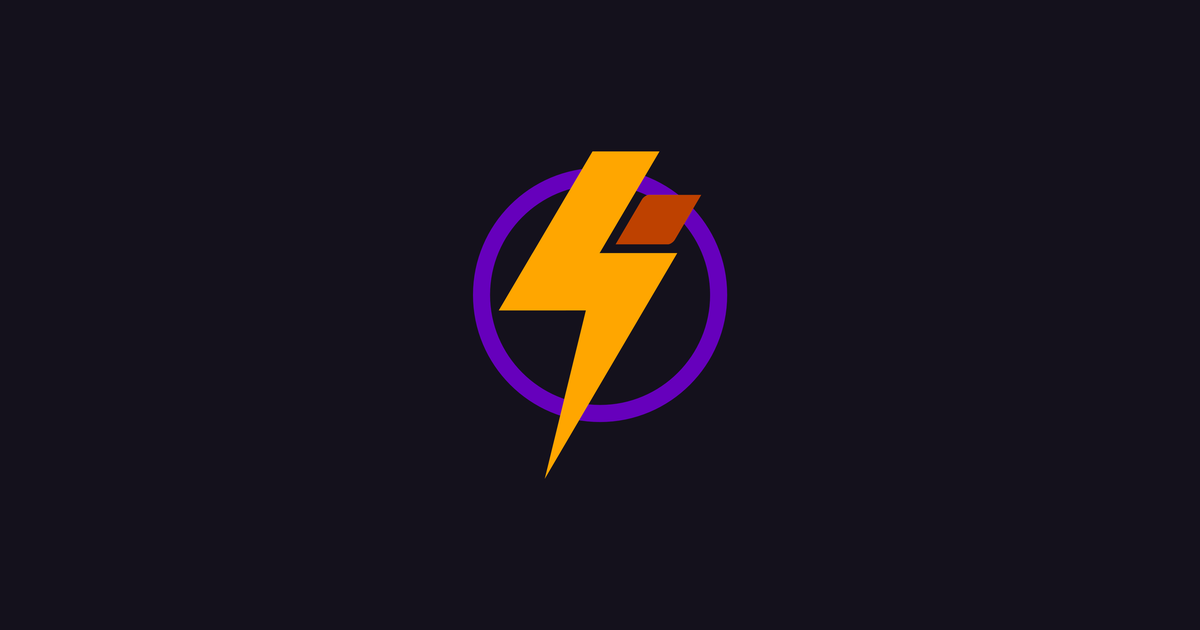
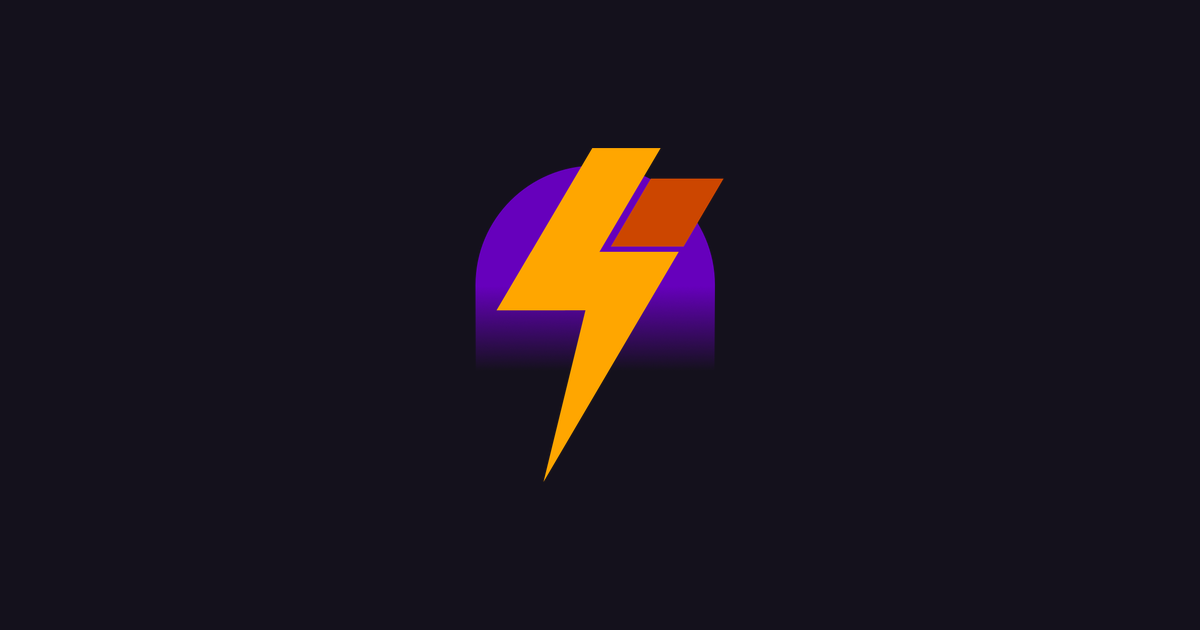
New mark: the bolt over a fading purple arch
Every icon and the lockup mark are now cut from one master by
tools/brand/icons.py: favicon.ico, the PWA icons, the apple-touch icon,
the Open Graph card and assets/images/nostr4-mark.png. The lockup's
intrinsic size and the OG alt text follow the new shape.

Changed region(s): [[0.37, 0.2413, 0.6167, 0.6937], [0.4933, 0.2111, 0.555, 0.2413]]

diff --git a/_includes/lib/lockup.html b/_includes/lib/lockup.html
@@ -4,7 +4,7 @@ The brand lockup: mark, wordmark, tagline. `variant: footer` sets the small one.
 {%- assign s = site.data.site -%}
 <a class="lockup{% if include.variant %} lockup--{{ include.variant }}{% endif %}" href="{{ '/' | relative_url }}" aria-label="{{ s.a11y.home_link | escape }}">
   <span class="lockup__row">
-    <img class="lockup__mark" src="{{ '/assets/images/nostr4-mark.png' | relative_url }}" alt="" width="448" height="576">
+    <img class="lockup__mark" src="{{ '/assets/images/nostr4-mark.png' | relative_url }}" alt="" width="429" height="576">
     <span class="lockup__word">{{ s.wordmark.stem }}<i class="four">{{ s.wordmark.four }}</i></span>
   </span>
   <span class="lockup__tagline">{{ s.tagline }}</span>

diff --git a/tools/brand/icons.py b/tools/brand/icons.py
@@ -1,0 +1,55 @@
+#!/usr/bin/env python3
+"""Cut every icon and image of the mark from one master.
+
+    python3 tools/brand/icons.py path/to/mark.png
+
+The master is a square RGBA PNG of the mark alone on transparency. This
+trims it to its content and writes, all on the site's ground colour:
+favicon.ico (16/32/48), apple-touch-icon.png, icon-192.png, icon-512.png,
+icon-512-maskable.png (mark inside the 80% safe zone) and the Open Graph
+default; and, on transparency, assets/images/nostr4-mark.png for the lockup.
+Pillow only.
+"""
+import sys
+from pathlib import Path
+from PIL import Image
+
+ROOT = Path(__file__).resolve().parents[2]
+GROUND = (0x14, 0x11, 0x1C, 255)
+MARK_HEIGHT = 576  # the lockup file's height; its width follows the mark
+
+def trimmed(path):
+    im = Image.open(path).convert("RGBA")
+    return im.crop(im.getbbox())
+
+def place(mark, size, height_ratio, ground=GROUND):
+    """The mark centred on a canvas, scaled to `height_ratio` of the canvas height."""
+    w, h = size if isinstance(size, tuple) else (size, size)
+    mh = round(h * height_ratio)
+    mw = round(mark.width * mh / mark.height)
+    m = mark.resize((mw, mh), Image.LANCZOS)
+    out = Image.new("RGBA", (w, h), ground)
+    out.alpha_composite(m, ((w - mw) // 2, (h - mh) // 2))
+    return out
+
+def main(src):
+    mark = trimmed(src)
+    jobs = {
+        "apple-touch-icon.png": (180, 0.72),
+        "icon-192.png": (192, 0.72),
+        "icon-512.png": (512, 0.72),
+        "icon-512-maskable.png": (512, 0.52),
+        "assets/images/og/default.png": ((1200, 630), 0.53),
+    }
+    for name, (size, ratio) in jobs.items():
+        place(mark, size, ratio).convert("RGB").save(ROOT / name, optimize=True)
+        print("wrote", name)
+    ico = [place(mark, s, 0.78).convert("RGB") for s in (48, 32, 16)]
+    ico[0].save(ROOT / "favicon.ico", format="ICO", sizes=[(48, 48), (32, 32), (16, 16)], append_images=ico[1:])
+    print("wrote favicon.ico")
+    w = round(mark.width * MARK_HEIGHT / mark.height)
+    mark.resize((w, MARK_HEIGHT), Image.LANCZOS).save(ROOT / "assets/images/nostr4-mark.png", optimize=True)
+    print(f"wrote assets/images/nostr4-mark.png {w}x{MARK_HEIGHT} — set width/height on lib/lockup.html to match")
+
+if __name__ == "__main__":
+    main(sys.argv[1])

diff --git a/README.md b/README.md
@@ -685,8 +685,18 @@ via `tools/profiles/resize.py`; without it the original is copied as is).
 Commit the result. A person's entry in `_data/pages/about.yml` overrides any
 field, which is how the team's blurbs are kept on message.
 
-Deployment is by `.github/workflows/pages.yml`. It is currently reachable only
-by manual dispatch; the `push` trigger is commented out until cutover.
+The mark is cut once from a master, never edited by hand:
+
+```sh
+python3 tools/brand/icons.py path/to/mark.png   # favicon.ico, the PWA icons, apple-touch-icon, the OG card, the lockup mark
+```
+
+The master is the mark alone on transparency. The script trims it, sets it on
+the ground colour at each size (inside the safe zone for the maskable icon)
+and prints the lockup file's new width, which goes on `lib/lockup.html`.
+
+Deployment is by `.github/workflows/pages.yml`: every push to `main` builds,
+checks and deploys. The custom domain is set in the repo's Pages settings.
 
 ## Where things are
 
